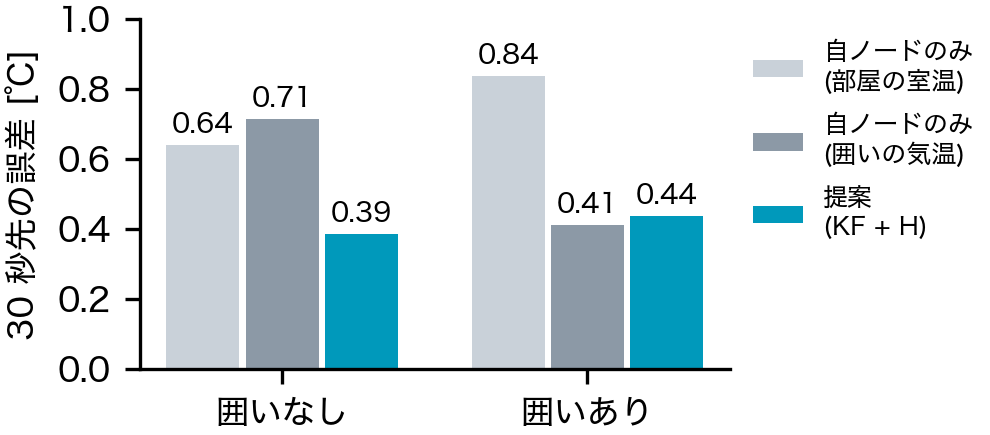
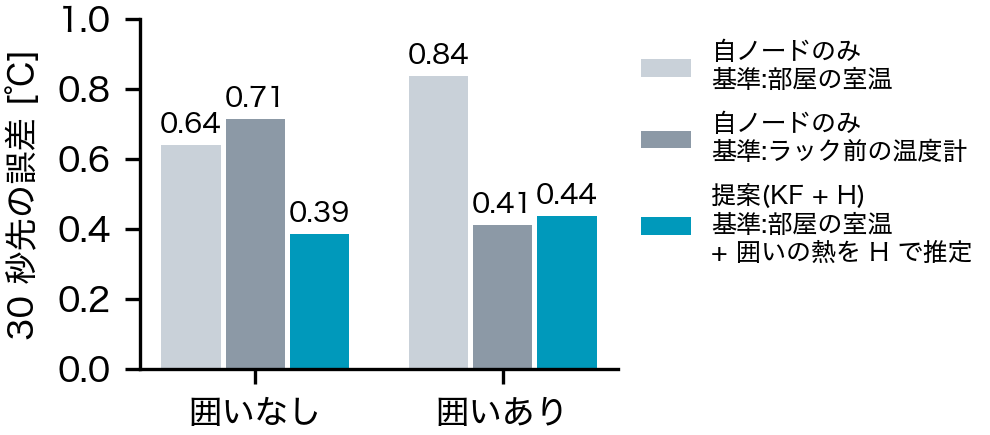
Q2 の図の凡例を、何を基準(室温の代わり)にしたかが分かる形に(先生の質問「囲いの気温を引く意味」を受けて)

diff --git a/scripts/fig_resume.py b/scripts/fig_resume.py
@@ -97,9 +97,9 @@ def fig_rise(exps, phase):
 
 
 def fig_pred():
-    models = [("①自ノードだけ(部屋の室温)", "自ノードのみ\n(部屋の室温)", "#C9D1D9"),
-              ("③'自ノードだけ(温度計2・3)", "自ノードのみ\n(囲いの気温)", "#8C99A6"),
-              ("②KF+H(部屋の室温)", "提案\n(KF + H)", "#0099BB")]
+    models = [("①自ノードだけ(部屋の室温)", "自ノードのみ\n基準:部屋の室温", "#C9D1D9"),
+              ("③'自ノードだけ(温度計2・3)", "自ノードのみ\n基準:ラック前の温度計", "#8C99A6"),
+              ("②KF+H(部屋の室温)", "提案(KF + H)\n基準:部屋の室温\n+ 囲いの熱を H で推定", "#0099BB")]
     fig, ax = plt.subplots(figsize=(3.3, 1.45))
     w = 0.26
     for j, exp in enumerate([OPEN, BOXED]):
